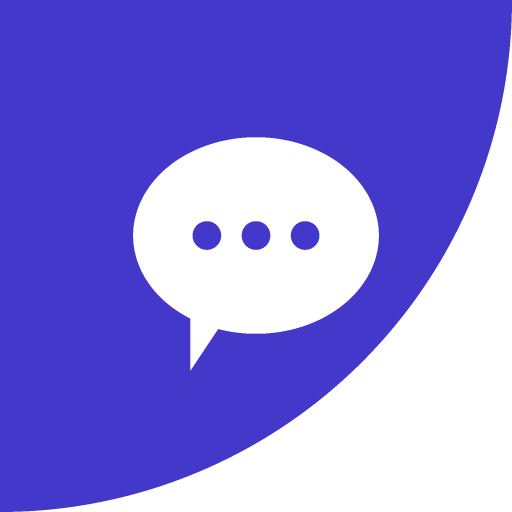
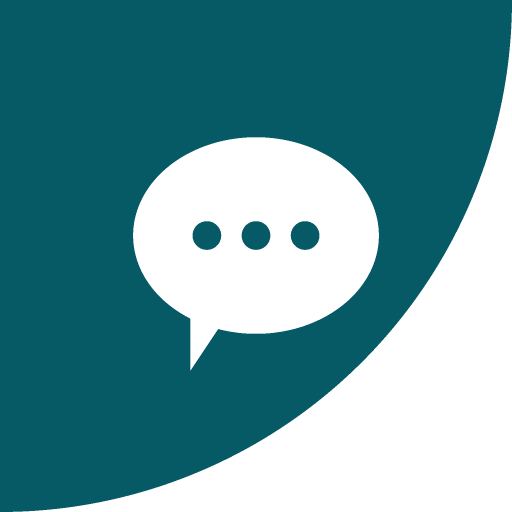
Remplace la palette indigo par un duotone menthe et bleu-vert
Les deux teintes fournies deviennent brand-200 (#a2d5c6) et brand-600
(#077b8a). Les quatre autres degres sont derives pour completer l echelle, en
verifiant les contrastes sur les paires reellement utilisees : blanc sur
l en-tete 7.89, blanc sur le bouton principal 4.99, surtitre brand-200 sur
l en-tete 4.84 — toutes au-dessus du seuil AA de 4.5.

L ancien indigo etait aussi code en dur hors du CSS : couleur de barre
d onglet, theme_color du manifeste PWA, favicon SVG et les quatre icones PNG.
Sans cela l ecran de demarrage et l icone installee seraient restes indigo.

Les PNG sont recolores par remappage des pixels sur l axe indigo vers blanc,
donc formes, courbes et antialiasing rigoureusement identiques.

diff --git a/src/index.css b/src/index.css
@@ -3,12 +3,17 @@
 /* Palette et rythme typographique de l'app. Tailwind v4 lit ce bloc @theme
    pour generer les utilitaires (bg-brand-600, text-ink-500, etc.). */
 @theme {
-  --color-brand-50: #eef2ff;
-  --color-brand-100: #e0e7ff;
-  --color-brand-200: #c7d2fe;
-  --color-brand-500: #6366f1;
-  --color-brand-600: #4f46e5;
-  --color-brand-700: #4338ca;
+  /* Duotone menthe / bleu-vert. Les deux teintes choisies sont brand-200 et
+     brand-600 ; les quatre autres sont derivees pour completer l'echelle, en
+     gardant les contrastes au-dessus du seuil AA sur les paires reellement
+     utilisees (texte blanc sur 600 et 700, brand-700 sur brand-50, brand-200
+     sur brand-700 dans l'en-tete). */
+  --color-brand-50: #f1f9f6;
+  --color-brand-100: #dcefe9;
+  --color-brand-200: #a2d5c6;
+  --color-brand-500: #0e98aa;
+  --color-brand-600: #077b8a;
+  --color-brand-700: #055a66;
 
   --color-ink-400: #94a3b8;
   --color-ink-500: #64748b;

diff --git a/index.html b/index.html
@@ -5,7 +5,7 @@
     <link rel="icon" type="image/svg+xml" href="/favicon.svg" />
     <link rel="apple-touch-icon" href="/apple-touch-icon.png" />
     <meta name="viewport" content="width=device-width, initial-scale=1.0, viewport-fit=cover" />
-    <meta name="theme-color" content="#4338ca" />
+    <meta name="theme-color" content="#055a66" />
     <meta
       name="description"
       content="Coaching quotidien d'anglais professionnel : dialogues de reunion, grammaire ciblee et vocabulaire marketing."

diff --git a/vite.config.js b/vite.config.js
@@ -25,7 +25,7 @@ export default defineConfig({
         display: 'standalone',
         orientation: 'portrait',
         background_color: '#f8fafc',
-        theme_color: '#4338ca',
+        theme_color: '#055a66',
         icons: [
           { src: 'pwa-192x192.png', sizes: '192x192', type: 'image/png' },
           { src: 'pwa-512x512.png', sizes: '512x512', type: 'image/png' },
